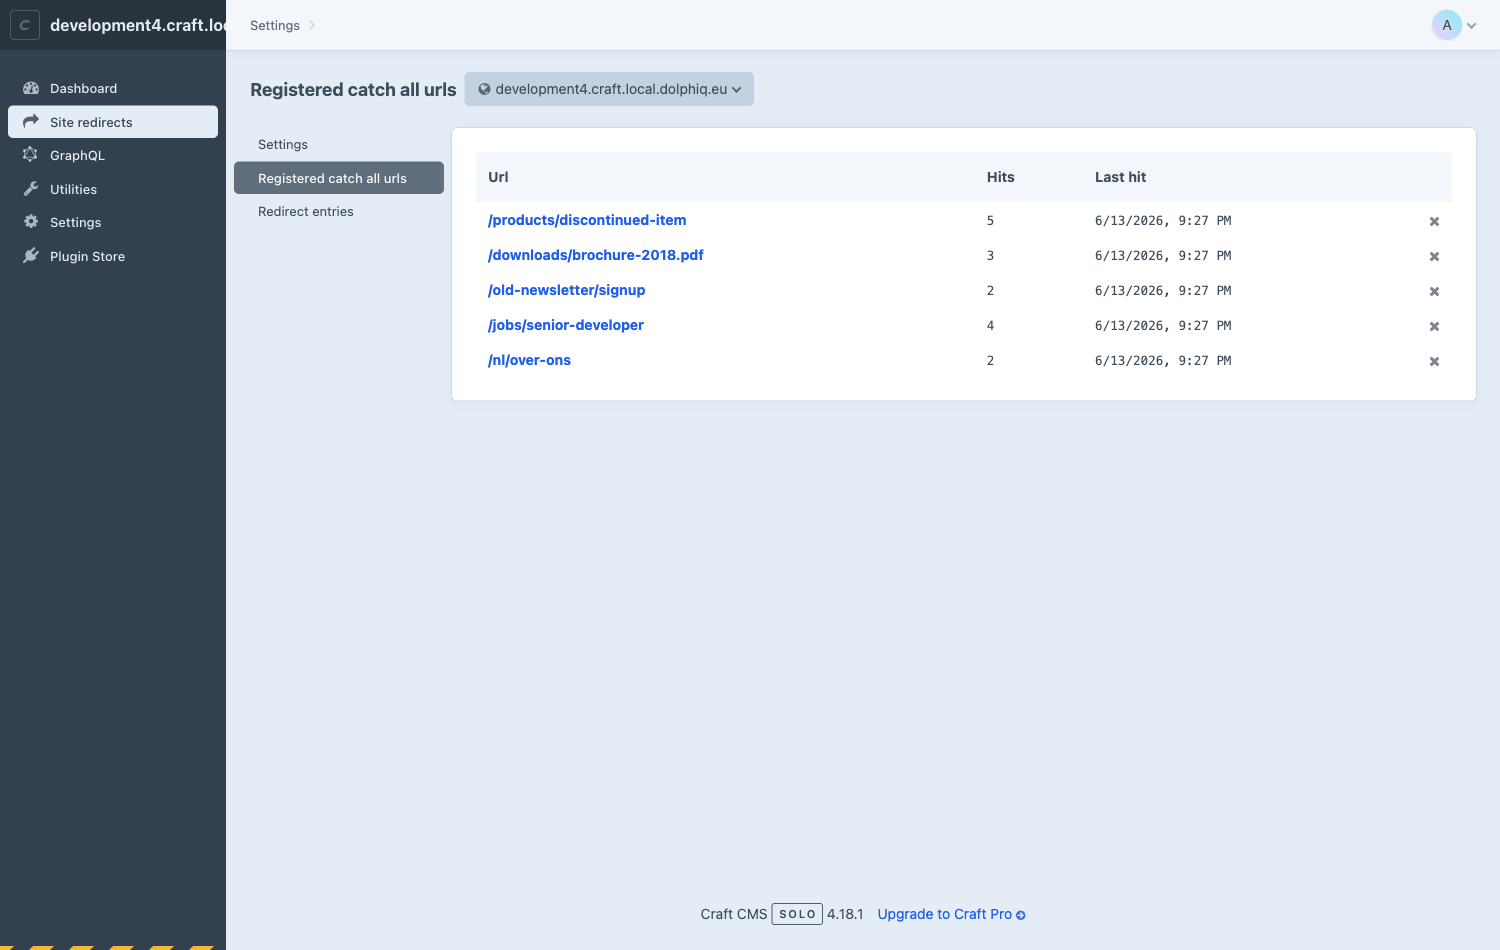
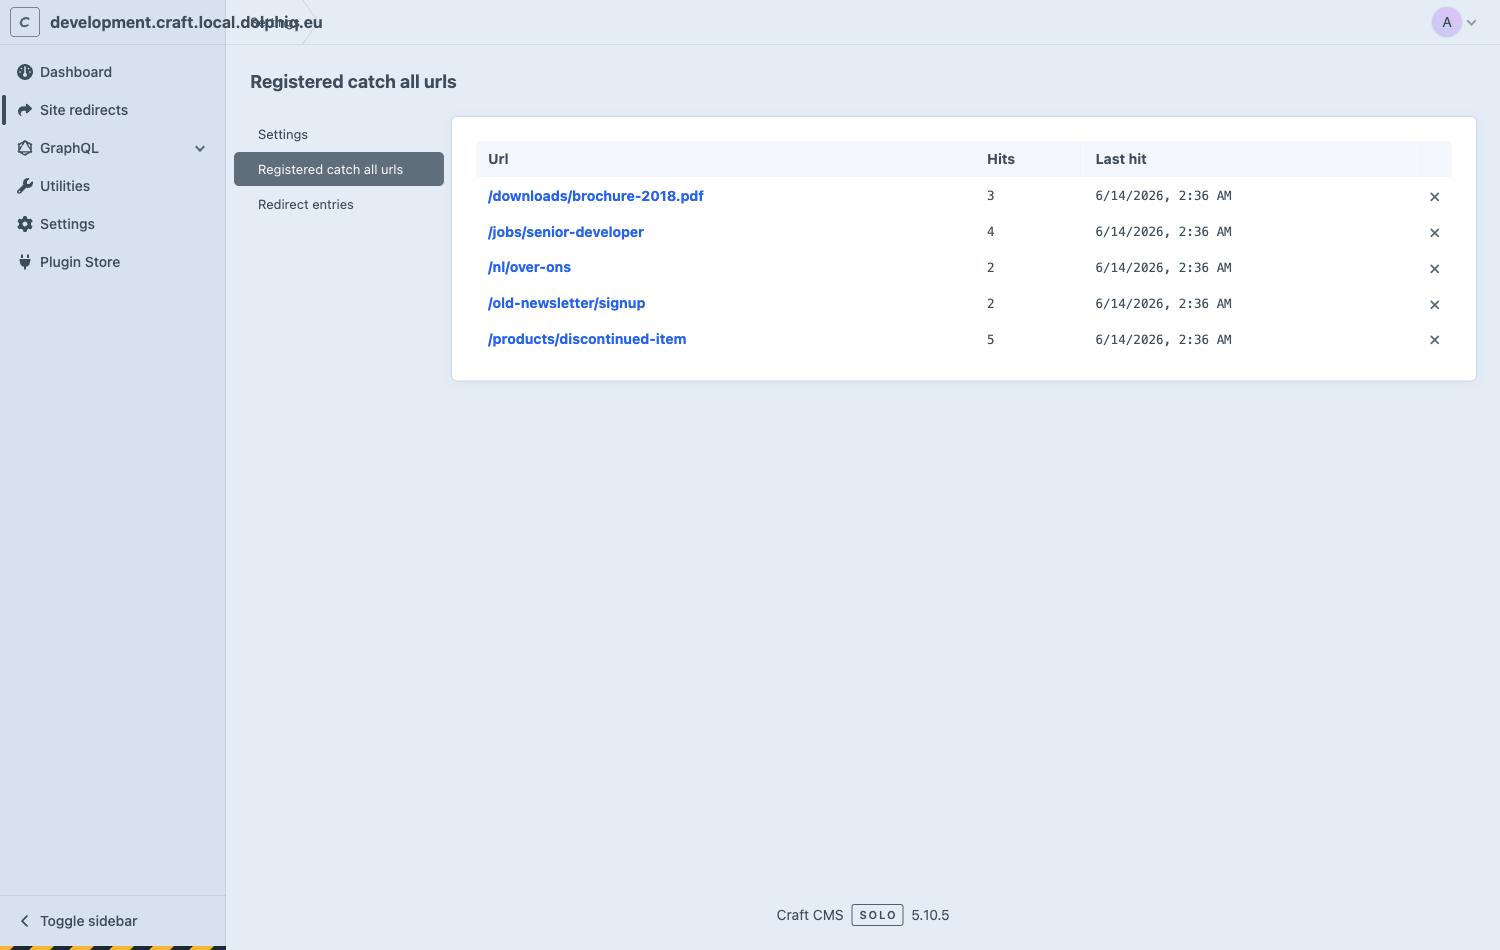
Refresh screenshots on Craft 5; add auto-redirect setting toggle

Changed region(s): [[0.0, 0.0, 0.9813, 1.0], [0.46, 0.9463, 0.6747, 0.9768], [0.9507, 0.0, 0.9813, 0.0305]]

diff --git a/src/controllers/SettingsController.php b/src/controllers/SettingsController.php
@@ -232,6 +232,7 @@ class SettingsController extends Controller
             'redirectsActive' => (bool)$request->getBodyParam('redirectsActive'),
             'catchAllActive' => (bool)$request->getBodyParam('catchAllActive'),
             'catchAllTemplate' => (string)$request->getBodyParam('catchAllTemplate'),
+            'autoCreateRedirectOnUriChange' => (bool)$request->getBodyParam('autoCreateRedirectOnUriChange'),
 
         ];
 

diff --git a/README.md b/README.md
@@ -138,6 +138,12 @@ Spot a URL that should point somewhere? Click it to create a redirect instantly.
   <img src="resources/screenshots/catch-all-missed-urls.png" alt="Registered missed URLs with hit counts" width="100%">
 </p>
 
+Keep an eye on them from the dashboard with the **Latest 404s** widget:
+
+<p align="center">
+  <img src="resources/screenshots/dashboard-widget.png" alt="Latest 404s dashboard widget" width="100%">
+</p>
+
 ## Settings
 
 <p align="center">
@@ -147,6 +153,7 @@ Spot a URL that should point somewhere? Click it to create a redirect instantly.
 - **Activate redirects** — globally enable or disable all redirects without deleting them.
 - **Use a Catch All page template** — turn on 404 handling and missed-URL tracking.
 - **Catch all template** — the Twig template that renders your 404 page.
+- **Automatic redirects on URI change** — create a 301 automatically when an element's URI changes.
 
 ## Roadmap
 